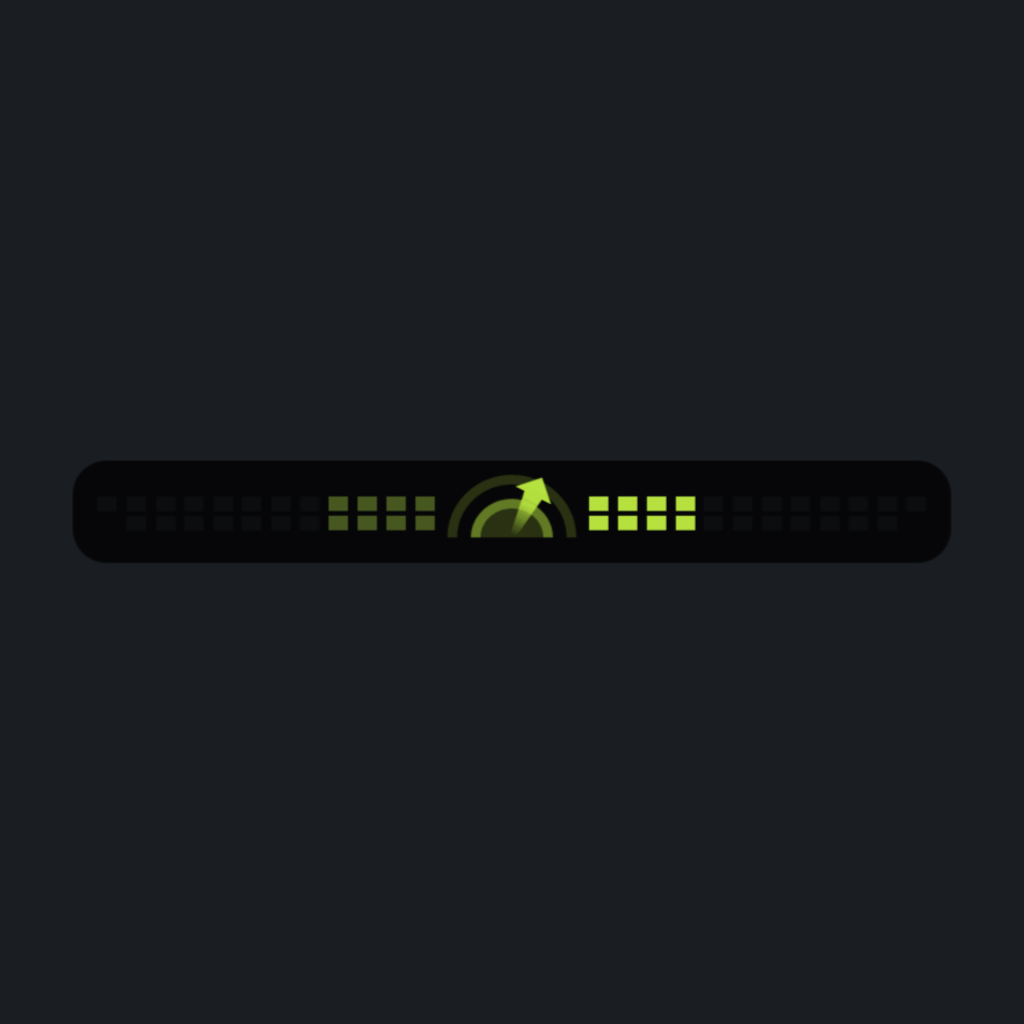
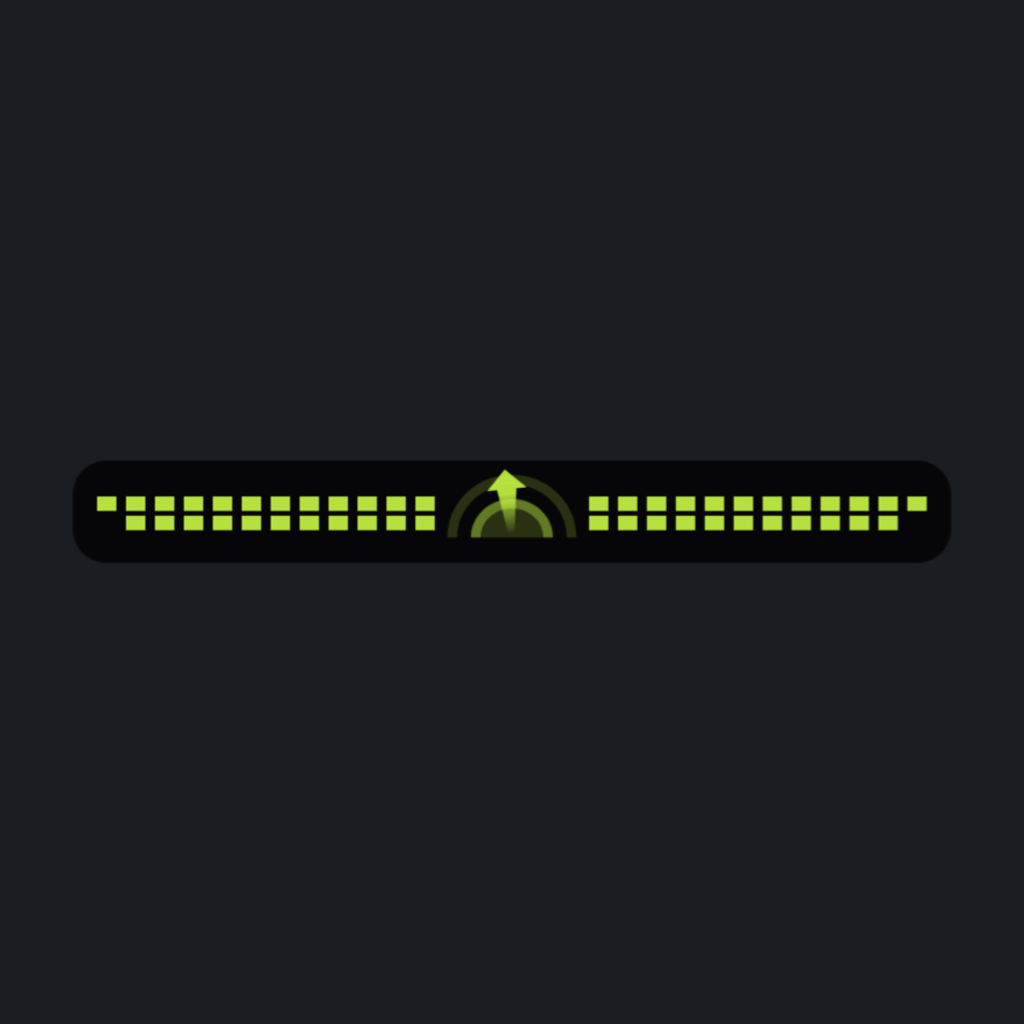
NFSMW-Upper Radar pulses as the game does; sound in demo on request
Every pulse the bar goes dark for a frame and fills again from the dome
outwards at the same speed (100 ms, measured frame by frame in the game),
then stays full; the distance sets only how often it pulses (every 350 ms at
the trouble to 1.4 s at the far edge), with the beep at each pulse. A new
setting, Sound in demo (off), lets the beep play in demo mode.

Changed region(s): [[0.0938, 0.4688, 0.4375, 0.5312], [0.6875, 0.4688, 0.9062, 0.5312], [0.4688, 0.4375, 0.5312, 0.5312]]

diff --git a/racelink/src/renderer/widgets/overlays/nfsmw-upper-radar/radar.ts b/racelink/src/renderer/widgets/overlays/nfsmw-upper-radar/radar.ts
@@ -1,16 +1,21 @@
-// What the radar shows for the trouble ahead (`session.hazardAhead`): how many
-// lights burn, how fast they blink, where the arrow points. No DOM here.
+// What the radar shows for the trouble ahead (`session.hazardAhead`), as the
+// game does it: every pulse the bar goes dark for a frame and fills again
+// from the dome outwards, always at the same speed, then stays full until the
+// next pulse. Closer trouble pulses more often; far away the bar just stays
+// full. No DOM here.
 
 /** Light columns on each side of the dome. */
 export const ledColumns = 12;
 /** How far ahead Racelink looks for trouble (`session.hazardAhead`). */
 export const rangeMeters = 1000;
-/** Blink period at the far edge of slow blinking, at the near edge, and at the trouble (ms). */
-const slowestMs = 900;
-const nearMs = 450;
-const fastestMs = 150;
-/** Share of a blink the lights burn. */
-const onShare = 0.6;
+/** The bar is dark this long at the start of a pulse (one frame of the game). */
+export const darkMs = 17;
+/** Then it fills from the dome outwards in this long (measured in the game: 6 frames). */
+export const fillMs = 100;
+/** Time between pulses at the trouble, at the near edge and at the far edge (ms). */
+const touchingMs = 350;
+const nearMs = 600;
+const farMs = 1400;
 /** Brightness of the side away from the trouble. */
 export const farSideLevel = 0.35;
 
@@ -24,19 +29,12 @@ export interface Hazard {
 
 const clamp = (value: number, min: number, max: number) => Math.min(max, Math.max(min, value));
 
-/** Light columns that burn on each side: one far away, all of them close. */
-export const litColumns = (distanceMeters: number): number => {
-  if (!Number.isFinite(distanceMeters)) return 0;
-  const share = 1 - clamp(distanceMeters, 0, rangeMeters) / rangeMeters;
-  return clamp(Math.ceil(share * ledColumns), 1, ledColumns);
-};
-
 /**
- * How long one blink takes (ms): fast closer than `near`, slow closer than
- * `far`, both quicker as the trouble nears; null beyond `far`: the lights
- * glow without blinking.
+ * Time between pulses (ms): often closer than `near`, less often closer than
+ * `far`, both more often as the trouble nears; null beyond `far`: the bar
+ * stays full without pulsing.
  */
-export const blinkPeriodMs = (distanceMeters: number, near: number, far: number): number | null => {
+export const pulsePeriodMs = (distanceMeters: number, near: number, far: number): number | null => {
   if (!Number.isFinite(distanceMeters)) return null;
   const farEdge = Math.max(1, far);
   const nearEdge = clamp(near, 0, farEdge);
@@ -45,10 +43,16 @@ export const blinkPeriodMs = (distanceMeters: number, near: number, far: number)
   if (distance >= nearEdge) {
     const span = farEdge - nearEdge;
     const share = span > 0 ? (distance - nearEdge) / span : 0;
-    return nearMs + (slowestMs - nearMs) * share;
+    return nearMs + (farMs - nearMs) * share;
   }
   const share = nearEdge > 0 ? distance / nearEdge : 0;
-  return fastestMs + (nearMs - fastestMs) * share;
+  return touchingMs + (nearMs - touchingMs) * share;
+};
+
+/** Columns lit `elapsed` ms into a pulse: dark, then filling at a steady speed, then full. */
+export const litAt = (elapsedMs: number): number => {
+  if (elapsedMs < darkMs) return 0;
+  return clamp(Math.ceil(((elapsedMs - darkMs) / fillMs) * ledColumns), 0, ledColumns);
 };
 
 /** Brightness of the left and the right lights: the side of the trouble burns brighter. */
@@ -59,34 +63,39 @@ export const sideLevels = (direction: Direction | null): { left: number; right: 
 };
 
 /**
- * The blinking: a phase that runs at the current period, so a period that
- * changes does not jump. `beep` is true on the frame the lights come on.
+ * The pulses: the time into the current one, kept across a period that
+ * changes. `beep` is true on the frame a pulse starts.
  */
-export class Blinker {
-  private phase = 0;
-  private wasOn = false;
+export class Pulser {
+  /** Time into the current pulse; null while the bar stands full without pulsing. */
+  private elapsed: number | null = null;
 
   advance(
     elapsedMs: number,
     periodMs: number | null,
-  ): { readonly on: boolean; readonly beep: boolean } {
+  ): { readonly lit: number; readonly beep: boolean } {
     if (periodMs === null || !(periodMs > 0)) {
-      // Steady glow; the next blinking starts with the lights on and a beep.
-      this.phase = 0;
-      this.wasOn = false;
-      return { on: true, beep: false };
+      // A steady bar; pulsing starts again at once, with a beep.
+      this.elapsed = null;
+      return { lit: ledColumns, beep: false };
     }
     const step = Number.isFinite(elapsedMs) ? clamp(elapsedMs, 0, 1000) : 0;
-    this.phase = (this.phase + step / periodMs) % 1;
-    const on = this.phase < onShare;
-    const beep = on && !this.wasOn;
-    this.wasOn = on;
-    return { on, beep };
+    let beep = false;
+    if (this.elapsed === null) {
+      this.elapsed = 0;
+      beep = true;
+    } else {
+      this.elapsed += step;
+      if (this.elapsed >= periodMs) {
+        this.elapsed %= periodMs;
+        beep = true;
+      }
+    }
+    return { lit: litAt(this.elapsed), beep };
   }
 
   reset(): void {
-    this.phase = 0;
-    this.wasOn = false;
+    this.elapsed = null;
   }
 }
 

diff --git a/racelink/src/renderer/widgets/overlays/nfsmw-upper-radar/radar.test.ts b/racelink/src/renderer/widgets/overlays/nfsmw-upper-radar/radar.test.ts
@@ -3,42 +3,47 @@ import assert from 'node:assert/strict';
 import { test } from 'node:test';
 import {
   approachAngle,
-  blinkPeriodMs,
-  Blinker,
+  darkMs,
   farSideLevel,
+  fillMs,
   ledColumns,
-  litColumns,
+  litAt,
+  Pulser,
+  pulsePeriodMs,
   sideLevels,
 } from './radar.ts';
 
-test('more lights burn as the trouble nears', () => {
-  assert.equal(litColumns(999), 1);
-  assert.equal(litColumns(1000), 1);
-  assert.equal(litColumns(5000), 1);
-  assert.equal(litColumns(500), 6);
-  assert.equal(litColumns(0), ledColumns);
-  assert.equal(litColumns(-10), ledColumns);
-  assert.equal(litColumns(Number.NaN), 0);
+test('a pulse is dark for a frame, then fills at a steady speed, then stays full', () => {
+  assert.equal(litAt(0), 0);
+  assert.equal(litAt(darkMs - 1), 0);
+  const quarter = litAt(darkMs + fillMs / 4);
+  const half = litAt(darkMs + fillMs / 2);
+  assert.equal(quarter, ledColumns / 4);
+  assert.equal(half, ledColumns / 2);
+  assert.equal(litAt(darkMs + fillMs), ledColumns);
+  assert.equal(litAt(5000), ledColumns);
 });
 
-test('far away the lights glow, then blink slowly, then fast', () => {
-  assert.equal(blinkPeriodMs(800, 250, 600), null);
-  assert.equal(blinkPeriodMs(600, 250, 600), null);
-  const slow = blinkPeriodMs(500, 250, 600);
-  const edge = blinkPeriodMs(250, 250, 600);
-  const fast = blinkPeriodMs(100, 250, 600);
-  const touching = blinkPeriodMs(0, 250, 600);
+test('far away the bar stands full; closer it pulses, more often as the trouble nears', () => {
+  assert.equal(pulsePeriodMs(800, 250, 600), null);
+  assert.equal(pulsePeriodMs(600, 250, 600), null);
+  const slow = pulsePeriodMs(500, 250, 600);
+  const edge = pulsePeriodMs(250, 250, 600);
+  const fast = pulsePeriodMs(100, 250, 600);
+  const touching = pulsePeriodMs(0, 250, 600);
   assert.ok(slow !== null && edge !== null && fast !== null && touching !== null);
   assert.ok(slow > edge && edge > fast && fast > touching);
-  assert.equal(edge, 450);
-  assert.equal(touching, 150);
-  assert.equal(blinkPeriodMs(Number.POSITIVE_INFINITY, 250, 600), null);
+  assert.equal(edge, 600);
+  assert.equal(touching, 350);
+  // Even the fastest pulse has time to fill the bar.
+  assert.ok(touching > darkMs + fillMs);
+  assert.equal(pulsePeriodMs(Number.NaN, 250, 600), null);
 });
 
-test('a near edge beyond the far edge still blinks fast near the trouble', () => {
-  const period = blinkPeriodMs(100, 900, 300);
-  assert.ok(period !== null && period < 450);
-  assert.equal(blinkPeriodMs(400, 900, 300), null);
+test('a near edge beyond the far edge still pulses near the trouble', () => {
+  const period = pulsePeriodMs(100, 900, 300);
+  assert.ok(period !== null && period < 600);
+  assert.equal(pulsePeriodMs(400, 900, 300), null);
 });
 
 test('the side of the trouble burns brighter', () => {
@@ -48,22 +53,24 @@ test('the side of the trouble burns brighter', () => {
   assert.deepEqual(sideLevels(null), { left: 1, right: 1 });
 });
 
-test('the blinker beeps once each time the lights come on', () => {
-  const blinker = new Blinker();
+test('the pulser beeps once a pulse and fills the bar each time', () => {
+  const pulser = new Pulser();
   let beeps = 0;
-  let offFrames = 0;
-  // Two seconds at 60 fps with a 400 ms blink: five blinks.
+  let darkFrames = 0;
+  let fullFrames = 0;
+  // Two seconds at 60 fps with a pulse every 500 ms: four pulses.
   for (let frame = 0; frame < 120; frame += 1) {
-    const { on, beep } = blinker.advance(1000 / 60, 400);
+    const { lit, beep } = pulser.advance(1000 / 60, 500);
     if (beep) beeps += 1;
-    if (!on) offFrames += 1;
+    if (lit === 0) darkFrames += 1;
+    if (lit === ledColumns) fullFrames += 1;
   }
-  assert.ok(beeps >= 4 && beeps <= 6, String(beeps));
-  assert.ok(offFrames > 30 && offFrames < 60, String(offFrames));
-  // A steady glow is on and silent.
-  assert.deepEqual(blinker.advance(16, null), { on: true, beep: false });
-  // Blinking again starts with a beep.
-  assert.equal(blinker.advance(16, 400).beep, true);
+  assert.equal(beeps, 4);
+  assert.ok(darkFrames >= 4 && darkFrames <= 8, String(darkFrames));
+  assert.ok(fullFrames > 80, String(fullFrames));
+  // A steady bar is full and silent; pulsing again starts with a beep, dark.
+  assert.deepEqual(pulser.advance(16, null), { lit: ledColumns, beep: false });
+  assert.deepEqual(pulser.advance(16, 500), { lit: 0, beep: true });
 });
 
 test('the arrow turns the short way round', () => {

diff --git a/racelink/src/renderer/widgets/overlays/nfsmw-upper-radar/App.tsx b/racelink/src/renderer/widgets/overlays/nfsmw-upper-radar/App.tsx
@@ -16,16 +16,7 @@ import {
   warmColor,
   type Placed,
 } from './layout';
-import {
-  approach,
-  approachAngle,
-  blinkPeriodMs,
-  Blinker,
-  litColumns,
-  rangeMeters,
-  sideLevels,
-  type Hazard,
-} from './radar';
+import { approach, approachAngle, Pulser, pulsePeriodMs, sideLevels, type Hazard } from './radar';
 import { loadBeep, playBeep } from './sound';
 import { loadRadarTextures, radarTexture, radarTexturesReady } from './textures';
 
@@ -43,6 +34,7 @@ interface Shown {
   readonly far: number;
   readonly showArrow: boolean;
   readonly sound: boolean;
+  readonly soundInDemo: boolean;
   readonly volume: number;
   readonly editing: boolean;
   readonly demo: boolean;
@@ -109,6 +101,7 @@ export default function App() {
     far: num(values, 'farMeters', 600),
     showArrow: bool(values, 'showArrow', true),
     sound: bool(values, 'sound', true),
+    soundInDemo: bool(values, 'soundInDemo', false),
     volume: Math.min(100, Math.max(0, num(values, 'volume', 70))) / 100,
     editing: overlay.editMode,
     demo: overlay.demoMode,
@@ -116,7 +109,7 @@ export default function App() {
 
   // What is drawn now: smoothed toward the data between updates.
   const drawn = useRef({ distance: Number.NaN, angle: Number.NaN, last: 0, appearedAt: -1 });
-  const blinker = useRef(new Blinker());
+  const pulser = useRef(new Pulser());
 
   useEffect(() => {
     void loadBeep();
@@ -137,7 +130,6 @@ export default function App() {
       const hazard = state.hazard;
       let lit = 0;
       let levels = { left: 1, right: 1 };
-      let lightsOn = false;
       let arrowAngle: number | null = null;
       // Close trouble turns the radar amber, as the game's second colour does.
       let warm = false;
@@ -145,18 +137,18 @@ export default function App() {
         memory.distance = approach(memory.distance, hazard.distanceMeters, elapsed, distanceTauMs);
         const target = state.showArrow ? (hazard.bearingDegrees ?? 0) : 0;
         memory.angle = approachAngle(memory.angle, target, elapsed, arrowTauMs);
-        lit = litColumns(Math.min(rangeMeters, memory.distance));
         if (state.showArrow) levels = sideLevels(hazard.direction);
-        const period = state.editing ? null : blinkPeriodMs(memory.distance, state.near, state.far);
-        const blink = blinker.current.advance(elapsed, period);
-        lightsOn = blink.on;
-        if (blink.beep && state.sound && !state.editing && !state.demo) playBeep(state.volume);
+        const period = state.editing ? null : pulsePeriodMs(memory.distance, state.near, state.far);
+        const pulse = pulser.current.advance(elapsed, period);
+        lit = pulse.lit;
+        if (pulse.beep && state.sound && !state.editing && (!state.demo || state.soundInDemo))
+          playBeep(state.volume);
         arrowAngle = memory.angle;
         warm = memory.distance < Math.min(state.near, state.far);
       } else {
         memory.distance = Number.NaN;
         memory.angle = Number.NaN;
-        blinker.current.reset();
+        pulser.current.reset();
       }
 
       const backingImage = radarTexture('radar_backing');
@@ -175,7 +167,7 @@ export default function App() {
         drawPlaced(context, dome, domeImage, warm ? warmColor : dome.color, groupAlpha, {
           offsetY: groupOffset,
         });
-      if (ledImage && lit > 0 && lightsOn) {
+      if (ledImage && lit > 0) {
         // Lights burn from the dome outwards.
         const sourceX = ledCropX(lit);
         drawPlaced(
@@ -207,16 +199,16 @@ export default function App() {
           rotation: (arrowAngle * Math.PI) / 180,
         });
 
-      // Animate while appearing, blinking or turning; a standing radar draws once.
+      // Animate while appearing, pulsing or turning; a standing radar draws once.
       const settling =
         hazard !== null &&
         (Math.abs(memory.distance - hazard.distanceMeters) > 0.5 ||
           Math.abs((arrowAngle ?? 0) - (state.showArrow ? (hazard.bearingDegrees ?? 0) : 0)) > 0.2);
-      const blinking =
+      const pulsing =
         hazard !== null &&
         !state.editing &&
-        blinkPeriodMs(memory.distance, state.near, state.far) !== null;
-      return !radarTexturesReady() || appear < 1 || blinking || settling;
+        pulsePeriodMs(memory.distance, state.near, state.far) !== null;
+      return !radarTexturesReady() || appear < 1 || pulsing || settling;
     },
     loadRadarTextures,
   );

diff --git a/overlays/nfsmw-upper-radar/src/racelink-settings.ts b/overlays/nfsmw-upper-radar/src/racelink-settings.ts
@@ -14,14 +14,16 @@
 // run `npm run typegen`, do not edit it.
 
 export interface Settings {
-  /** Fast blinking closer than */
+  /** Fast pulses closer than */
   readonly nearMeters: number;
-  /** Blinking closer than */
+  /** Pulses closer than */
   readonly farMeters: number;
   /** Arrow to the trouble */
   readonly showArrow: boolean;
   /** Beep */
   readonly sound: boolean;
+  /** Sound in demo */
+  readonly soundInDemo: boolean;
   /** Volume */
   readonly volume: number;
 }
@@ -31,5 +33,6 @@ export const defaultSettings: Settings = {
   "farMeters": 600,
   "showArrow": true,
   "sound": true,
+  "soundInDemo": false,
   "volume": 70
 };

diff --git a/racelink/src/renderer/widgets/overlays/nfsmw-upper-radar/sound.ts b/racelink/src/renderer/widgets/overlays/nfsmw-upper-radar/sound.ts
@@ -49,4 +49,3 @@ export const playBeep = (volume: number): void => {
   source.connect(gain).connect(current.destination);
   source.start();
 };
-
